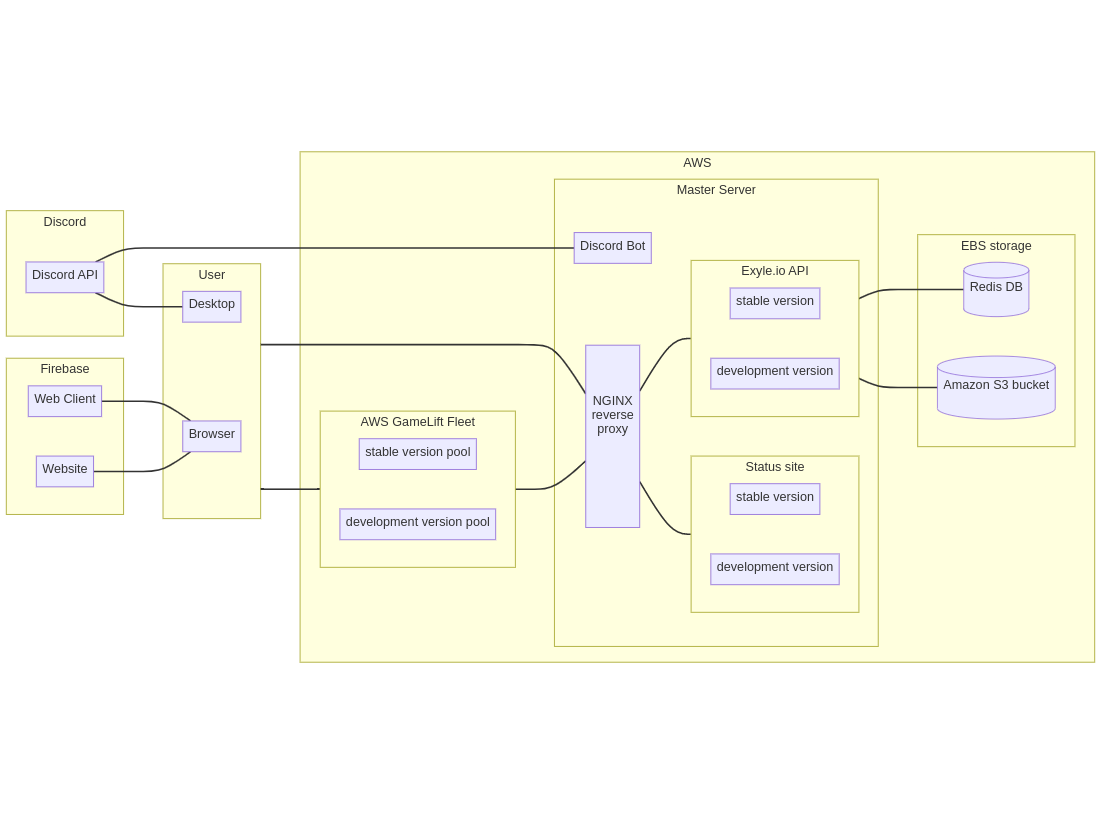
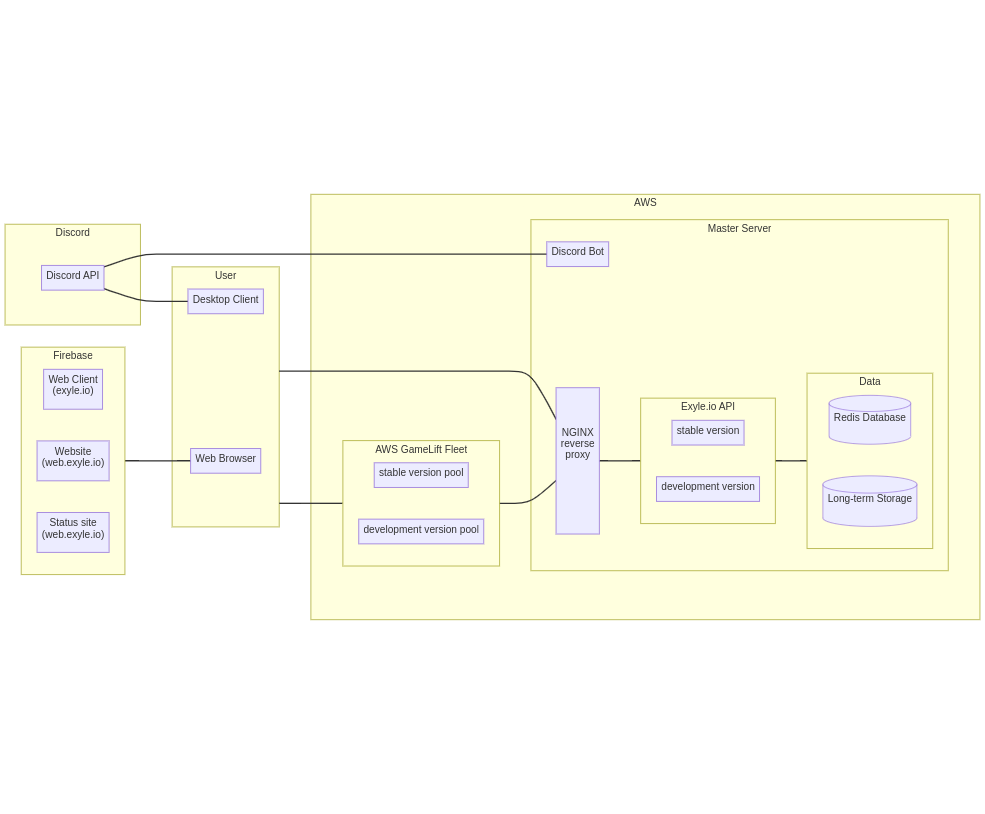
update infrastructure overview image

diff --git a/docs/game-design/infrastructure.md b/docs/game-design/infrastructure.md
@@ -28,53 +28,58 @@ Nah, [this mermaid](https://mermaid-js.github.io) LMAO.
 
 ```
 flowchart LR
-subgraph firebase[Firebase]
-web-client[Web Client]
-website[Website]
-end
-web-client --- browser
-website --- browser
-subgraph discord[Discord]
-discord-api[Discord API]
-end
-discord-api --- discord-bot
-discord-api --- desktop
-subgraph user[User]
-browser[Browser]
-desktop[Desktop]
-end
-user --- nginx-proxy
-user --- aws-gamelift-fleet
-subgraph aws[AWS]
-subgraph aws-gamelift-fleet[AWS GameLift Fleet]
-direction LR
-region-servers-stable[stable version pool]
-region-servers-dev[development version pool]
-end
-aws-gamelift-fleet --- nginx-proxy
-subgraph master-server[Master Server]
-discord-bot[Discord Bot]
-nginx-proxy[ \n\n\n NGINX \n reverse \n proxy \n\n\n\n]
-subgraph exyleio-api[Exyle.io API]
-direction LR
-exyleio-api-stable[stable version]
-exyleio-api-dev[development version]
-end
-subgraph status-site[Status site]
-direction LR
-status-site-stable[stable version]
-status-site-dev[development version]
-end
-end
-nginx-proxy --- exyleio-api
-nginx-proxy --- status-site
-subgraph ebs[EBS storage]
-redis-db[(Redis DB)]
-object-storage[(Amazon S3 bucket)]
-end
-exyleio-api --- redis-db
-exyleio-api --- object-storage
-end
+    subgraph firebase[Firebase]
+        direction LR
+        web-client["Web Client\n(exyle.io)"]
+        website["Website\n(web.exyle.io)"]
+        status-site["Status site\n(web.exyle.io)"]
+    end
+    firebase --- browser
+
+    subgraph discord[Discord]
+        discord-api[Discord API]
+    end
+    discord-api --- discord-bot
+    discord-api --- desktop-client
+
+    subgraph user[User]
+        browser[Web Browser]
+        desktop-client[Desktop Client]
+    end
+    user --- nginx-proxy
+    user --- aws-gamelift-fleet
+
+    subgraph aws[AWS]
+        classDef aws_padding fill:none,stroke:none
+        subgraph aws_padding [ ]
+            subgraph aws-gamelift-fleet[AWS GameLift Fleet]
+                direction LR
+                region-servers-stable[stable version pool]
+                region-servers-dev[development version pool]
+            end
+            aws-gamelift-fleet --- nginx-proxy
+
+            subgraph master-server[Master Server]
+                discord-bot[Discord Bot]
+                nginx-proxy[ \n\n\n NGINX \n reverse \n proxy \n\n\n\n]
+
+                subgraph api[Exyle.io API]
+                    direction LR
+                    api-stable[stable version]
+                    api-dev[development version]
+                end
+
+                subgraph data[Data]
+                    direction LR
+                    redis-db[(Redis Database)]
+                    long-term-storage[(Long-term Storage)]
+                end
+            end
+            nginx-proxy --- api
+            api --- data
+        end
+        class aws_padding aws_padding
+    end
 ```
 
 </details>
